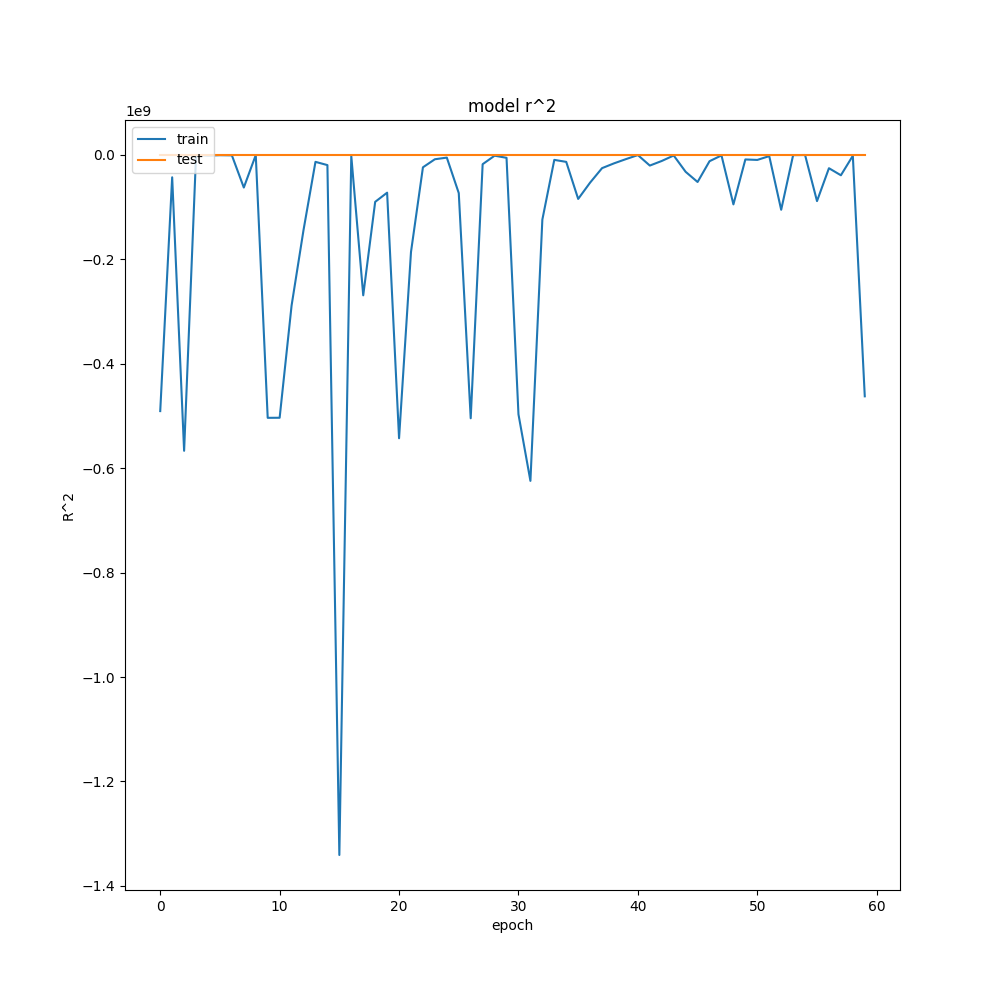
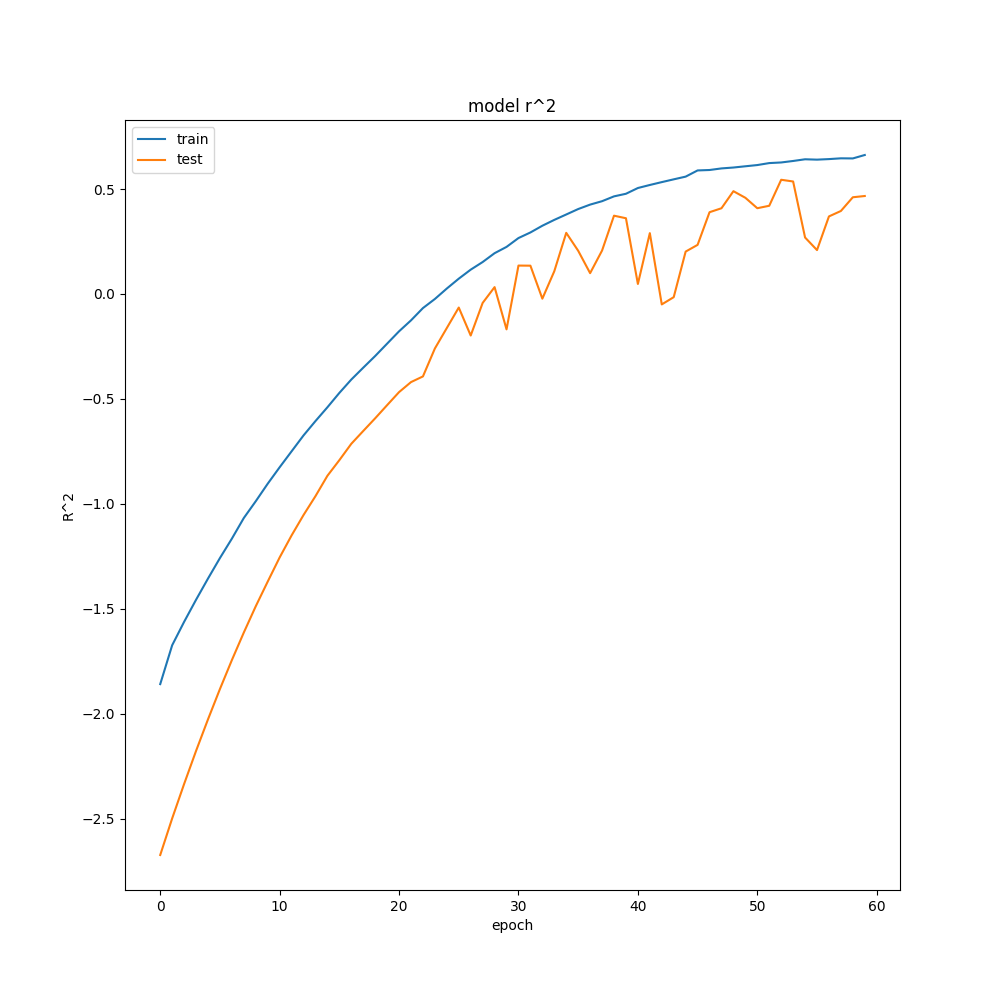
main

diff --git a/nasa.py b/nasa.py
@@ -230,14 +230,13 @@ def lstm_train(seq_array, label_array, sequence_length):
     model.add(Dense(units=nb_output, activation="linear"))
 
     # AdamW optimizer ve ReduceLROnPlateau kullan
-    optimizer = AdamW(learning_rate=0.001)
-    model.compile(loss='mean_squared_error', optimizer=optimizer, metrics=["mae", r2_keras])
+    model.compile(loss='mean_squared_error', optimizer="rmsprop", metrics=["mae", r2_keras])
 
     # Öğrenme hızı zamanla düşsün
     lr_schedule = ReduceLROnPlateau(monitor="val_loss", factor=0.5, patience=5, min_lr=1e-5)
 
     # Modeli eğit
-    history = model.fit(seq_array, label_array, epochs=60, batch_size=64, validation_split=0.05, verbose=2,
+    history = model.fit(seq_array, label_array, epochs=60, batch_size=200, validation_split=0.05, verbose=2,
                         callbacks=[lr_schedule])
     print(history.history.keys())
 
@@ -902,101 +901,5 @@ print(f"Ensemble Model for all test MAE: {mae}, RMSE: {rmse}, R2 Score: {r2}")
 print(r2_score(y_true_test, xgb_pred_for_all))
 print(r2_score(y_true_test, transformer_pred_for_all))
 print(r2_score(y_true_test, y_pred_test))
-
-
-
-
-
-
-import torch
-import torch.nn as nn
-import torch.optim as optim
-
-
-class TransformerRUL(nn.Module):
-    def __init__(self, input_dim, d_model, nhead, num_layers, dropout=0.1):
-        super(TransformerRUL, self).__init__()
-
-        self.input_projection = nn.Linear(input_dim, d_model)  # Sensör verisini dönüştür
-        self.positional_encoding = nn.Parameter(torch.randn(1, 100, d_model))  # Sabit pozisyonel kodlama
-
-        # Transformer Encoder
-        encoder_layer = nn.TransformerEncoderLayer(d_model=d_model, nhead=nhead, dropout=dropout, batch_first=True)
-        self.transformer_encoder = nn.TransformerEncoder(encoder_layer, num_layers=num_layers)
-
-        # Tam bağlı katman (son tahmin)
-        self.fc = nn.Linear(d_model, 1)
-
-    def forward(self, x):
-        x = self.input_projection(x)  # Sensör verisini dönüştür
-        x = x + self.positional_encoding[:, :x.size(1), :]  # Pozisyonel kodlama ekle
-        x = self.transformer_encoder(x)  # Transformer encoder'a gönder
-        x = x.mean(dim=1)  # Global Average Pooling (ortalama çıkış)
-        return self.fc(x)  # RUL tahmini yap
-
-import pandas as pd
-import numpy as np
-from sklearn.preprocessing import MinMaxScaler
-from torch.utils.data import Dataset, DataLoader
-
-# CMAPSS veri setini yükleme
-
-X_sequences, y_sequences = seq_array.copy(), label_array.copy()
-
-
-class RULDataset(Dataset):
-    def __init__(self, X, y):
-        self.X = torch.tensor(X, dtype=torch.float32)
-        self.y = torch.tensor(y, dtype=torch.float32).unsqueeze(1)
-
-    def __len__(self):
-        return len(self.X)
-
-    def __getitem__(self, idx):
-        return self.X[idx], self.y[idx]
-
-
-# Veri kümesi oluştur
-dataset = RULDataset(X_sequences, y_sequences)
-train_loader = DataLoader(dataset, batch_size=32, shuffle=True)
-
-# Modeli oluştur
-device = torch.device("cuda" if torch.cuda.is_available() else "cpu")
-model = TransformerRUL(input_dim=X_sequences.shape[2], d_model=128, nhead=8, num_layers=4).to(device)
-
-# Kayıp fonksiyonu ve optimizer
-criterion = nn.MSELoss()  # RUL tahmini regresyon problemidir
-optimizer = optim.Adam(model.parameters(), lr=0.001)
-
-# Modeli eğitme
-num_epochs = 30
-for epoch in range(num_epochs):
-    model.train()
-    total_loss = 0
-    for X_batch, y_batch in train_loader:
-        X_batch, y_batch = X_batch.to(device), y_batch.to(device)
-
-        optimizer.zero_grad()
-        predictions = model(X_batch)
-        y_batch = y_batch.squeeze(-1)
-        loss = criterion(predictions, y_batch)
-        loss.backward()
-        optimizer.step()
-
-        total_loss += loss.item()
-
-    print(f"Epoch {epoch + 1}/{num_epochs}, Loss: {total_loss / len(train_loader):.4f}")
-
-model.eval()
-X_test_tensor = torch.tensor(X_sequences[-100:], dtype=torch.float32).to(device)
-y_test_tensor = torch.tensor(y_sequences[-100:], dtype=torch.float32).to(device).squeeze(-1)
-
-with torch.no_grad():
-    y_pred = model(X_test_tensor).cpu().numpy()
-
-# Performans metriği
-from sklearn.metrics import mean_absolute_error
-mae = mean_absolute_error(y_sequences[-100:], y_pred)
-print(f"Test MAE: {mae:.4f}")
 
 
